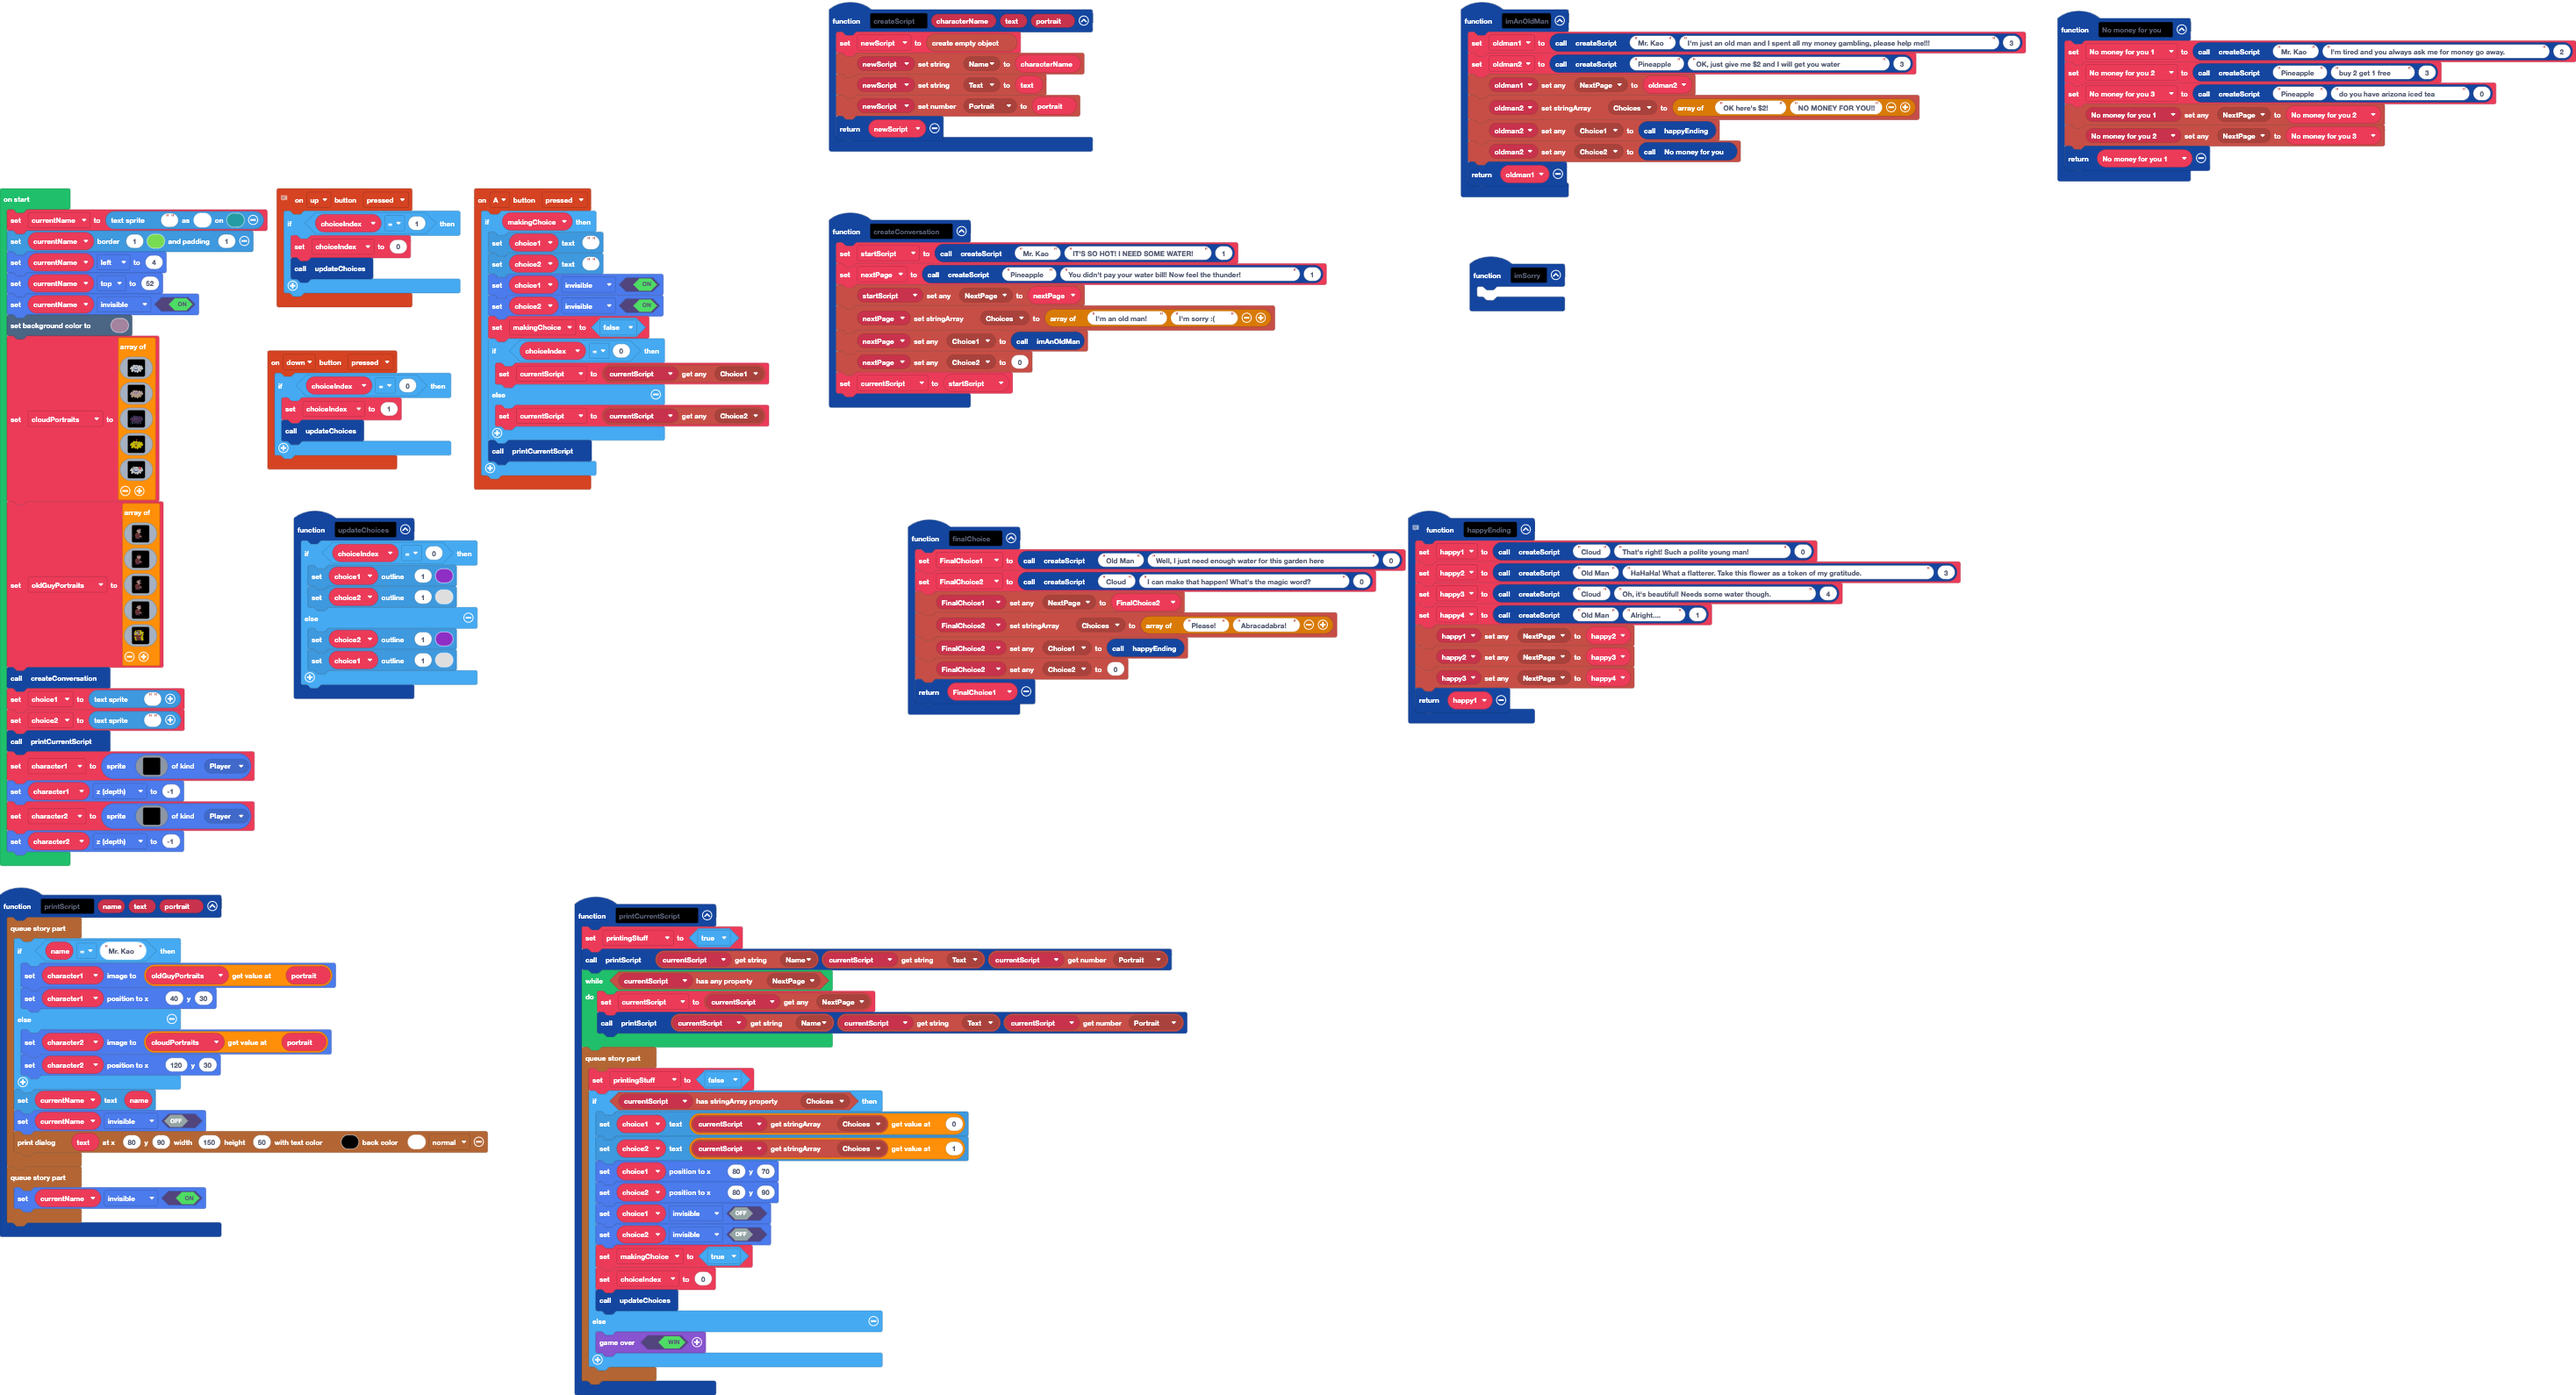
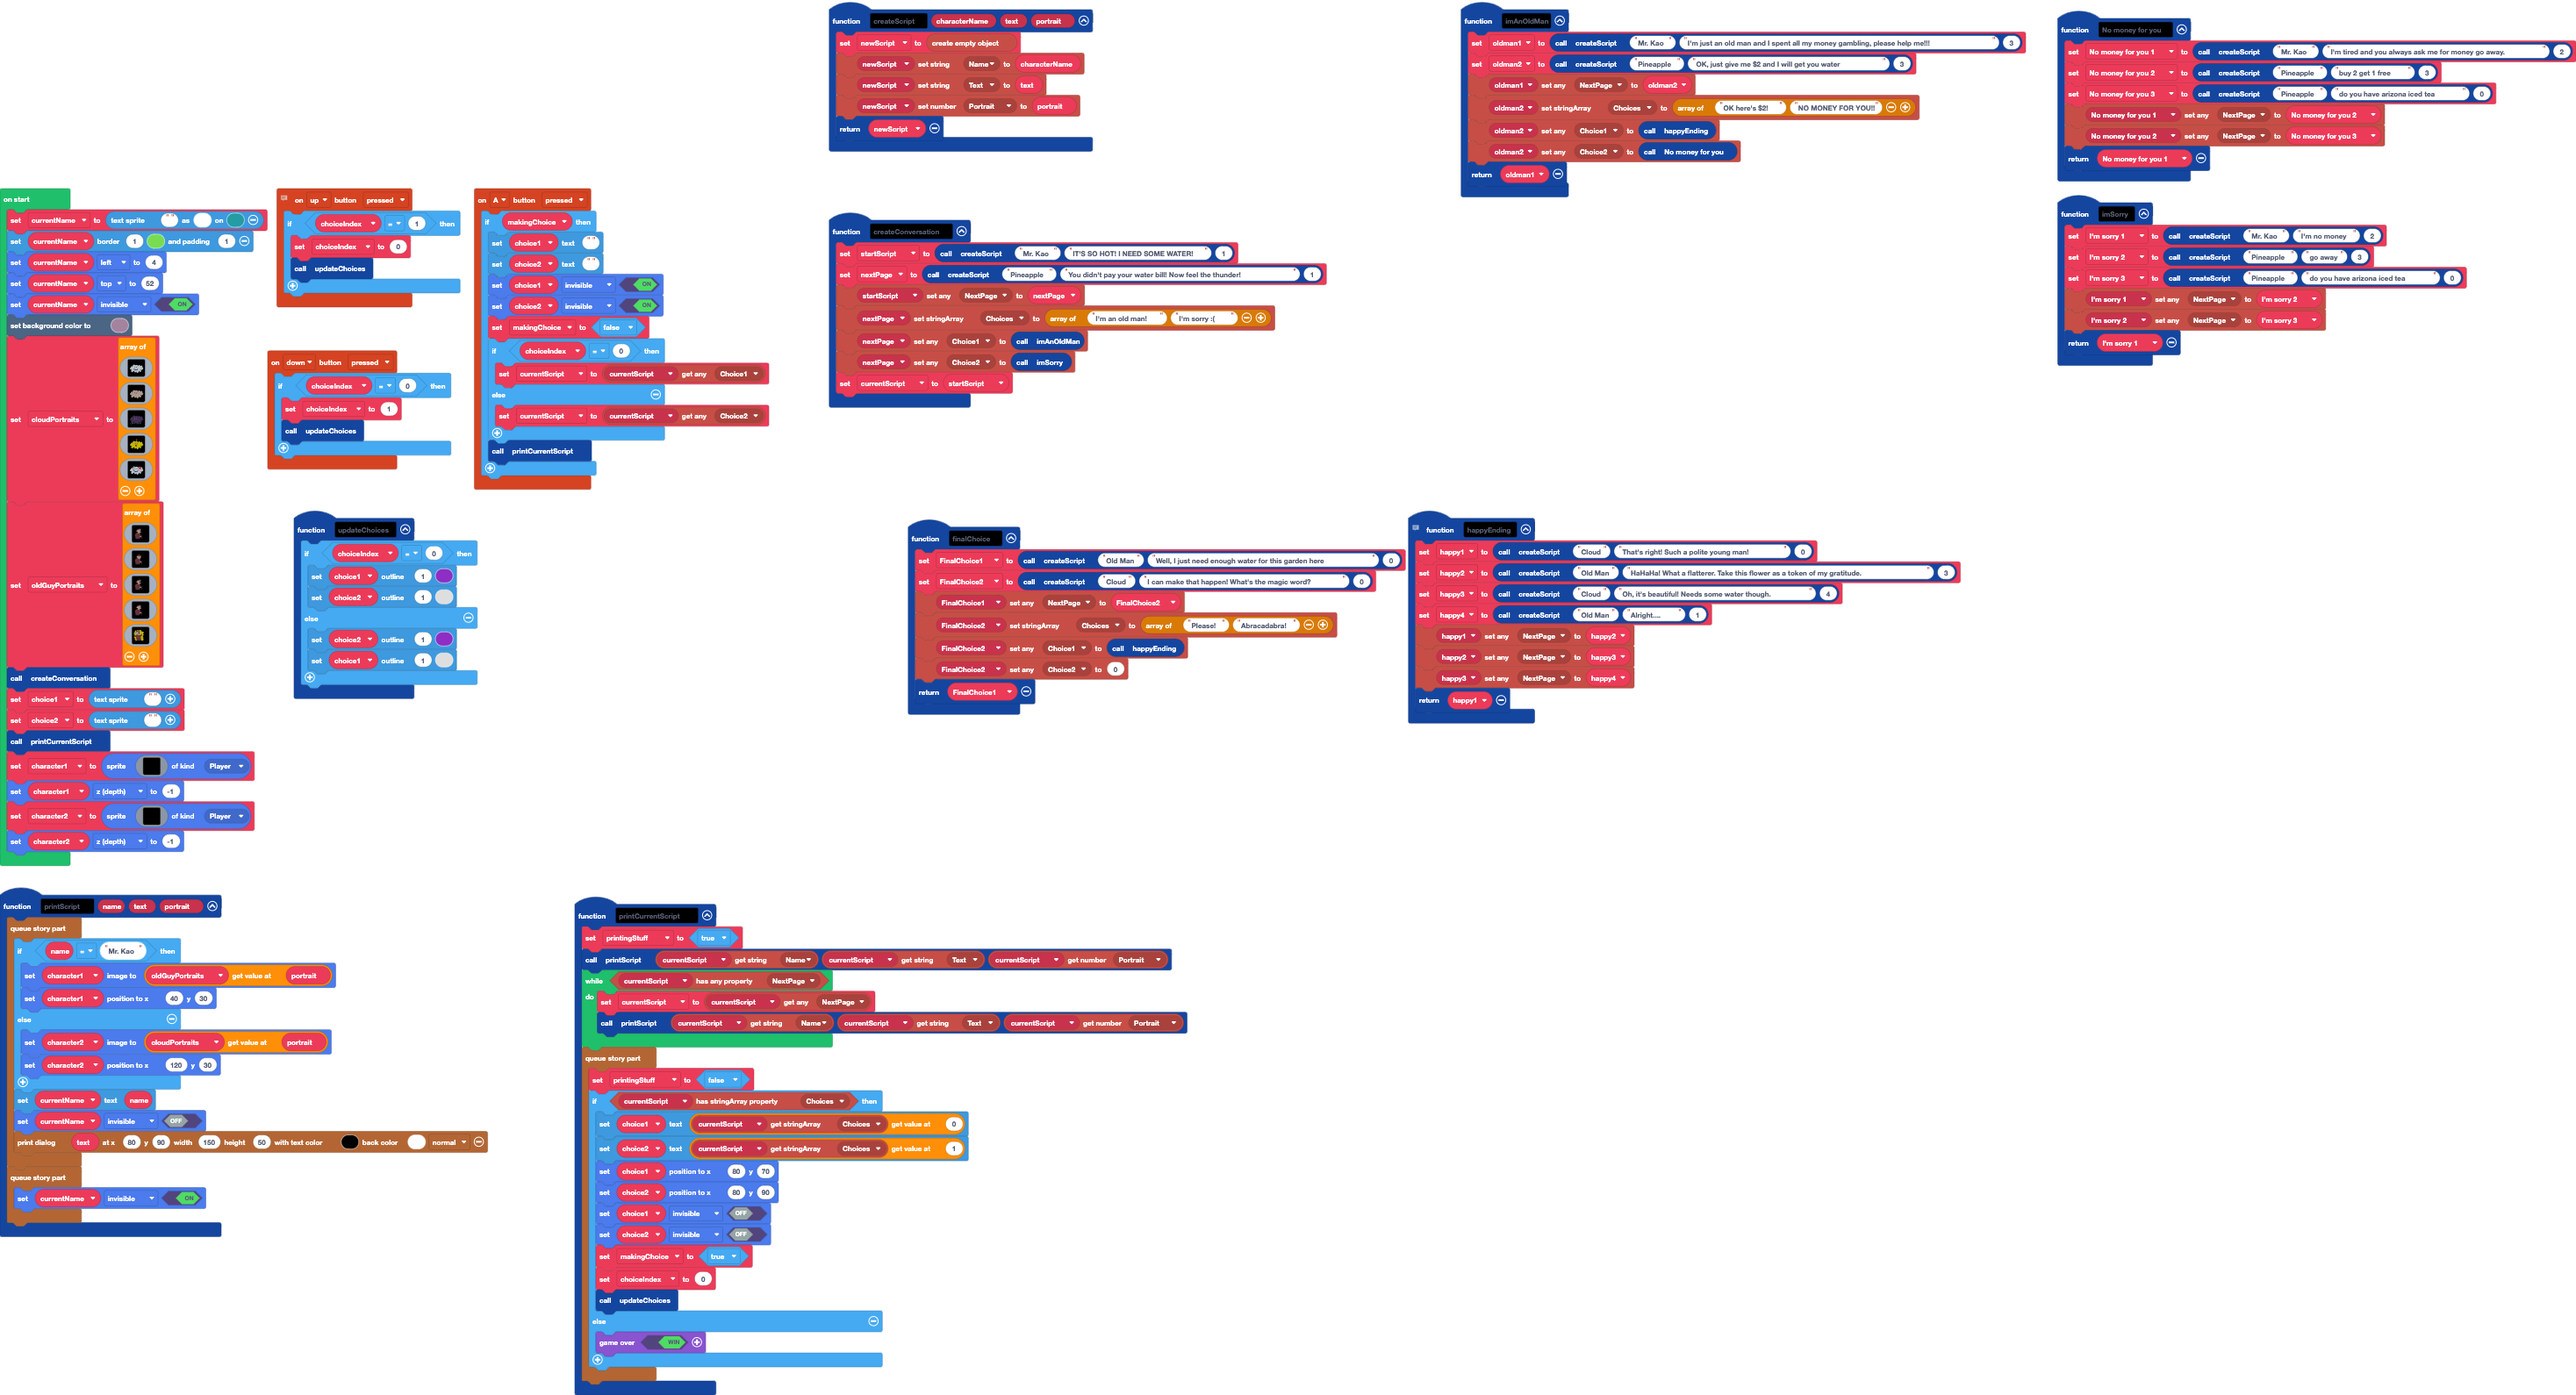
Finish I'm sorry

Changed region(s): [[0.7751, 0.1233, 0.9612, 0.2774], [0.5581, 0.1849, 0.6201, 0.2465], [0.3721, 0.2465, 0.4341, 0.2774]]

diff --git a/main.ts b/main.ts
@@ -44,7 +44,12 @@ function happyEnding () {
     return happy1
 }
 function imSorry () {
-	
+    Im_sorry_1 = createScript("Mr. Kao", "I'm no money", 2)
+    Im_sorry_2 = createScript("Pineapple", "go away", 3)
+    Im_sorry_3 = createScript("Pineapple", "do you have arizona iced tea ", 0)
+    blockObject.setAnyProperty(Im_sorry_1, AnyProp.NextPage, Im_sorry_2)
+    blockObject.setAnyProperty(Im_sorry_2, AnyProp.NextPage, Im_sorry_3)
+    return Im_sorry_1
 }
 // microsoft/arcade-block-objects
 // 
@@ -61,7 +66,7 @@ function createConversation () {
     blockObject.setAnyProperty(startScript, AnyProp.NextPage, nextPage)
     blockObject.setStringArrayProperty(nextPage, StrArrayProp.Choices, ["I'm an old man!", "I'm sorry :("])
     blockObject.setAnyProperty(nextPage, AnyProp.Choice1, imAnOldMan())
-    blockObject.setAnyProperty(nextPage, AnyProp.Choice2, 0)
+    blockObject.setAnyProperty(nextPage, AnyProp.Choice2, imSorry())
     currentScript = startScript
 }
 function printScript (name: string, text: string, portrait: number) {
@@ -182,6 +187,9 @@ let currentScript: blockObject.BlockObject = null
 let nextPage: blockObject.BlockObject = null
 let startScript: blockObject.BlockObject = null
 let choiceIndex = 0
+let Im_sorry_3: blockObject.BlockObject = null
+let Im_sorry_2: blockObject.BlockObject = null
+let Im_sorry_1: blockObject.BlockObject = null
 let happy4: blockObject.BlockObject = null
 let happy3: blockObject.BlockObject = null
 let happy2: blockObject.BlockObject = null
